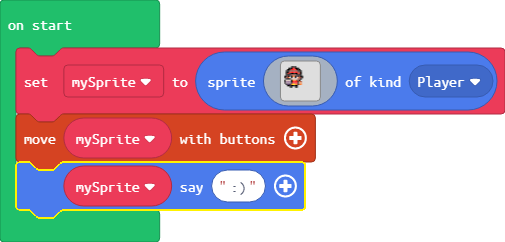
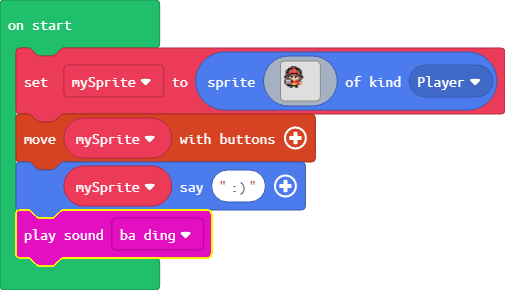
Update main.blocks, main.ts

diff --git a/main.ts b/main.ts
@@ -26,3 +26,4 @@ f b b b b f 2 2 2 2 f d 4 . . . . . . . . . . .
 `, SpriteKind.Player)
 controller.moveSprite(mySprite)
 mySprite.say(":)")
+music.baDing.play()
